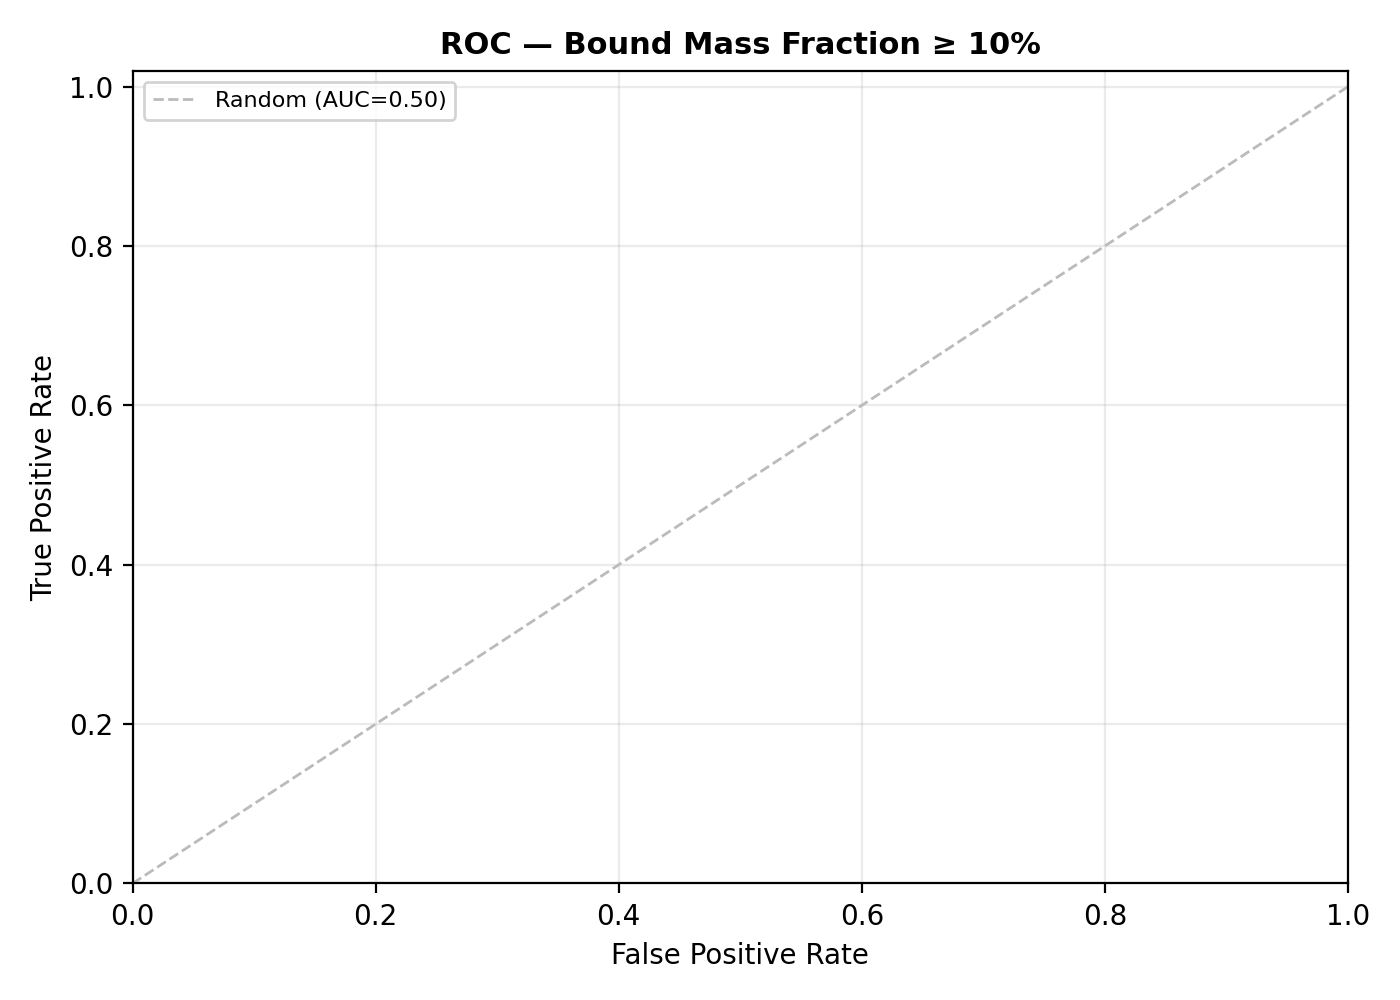
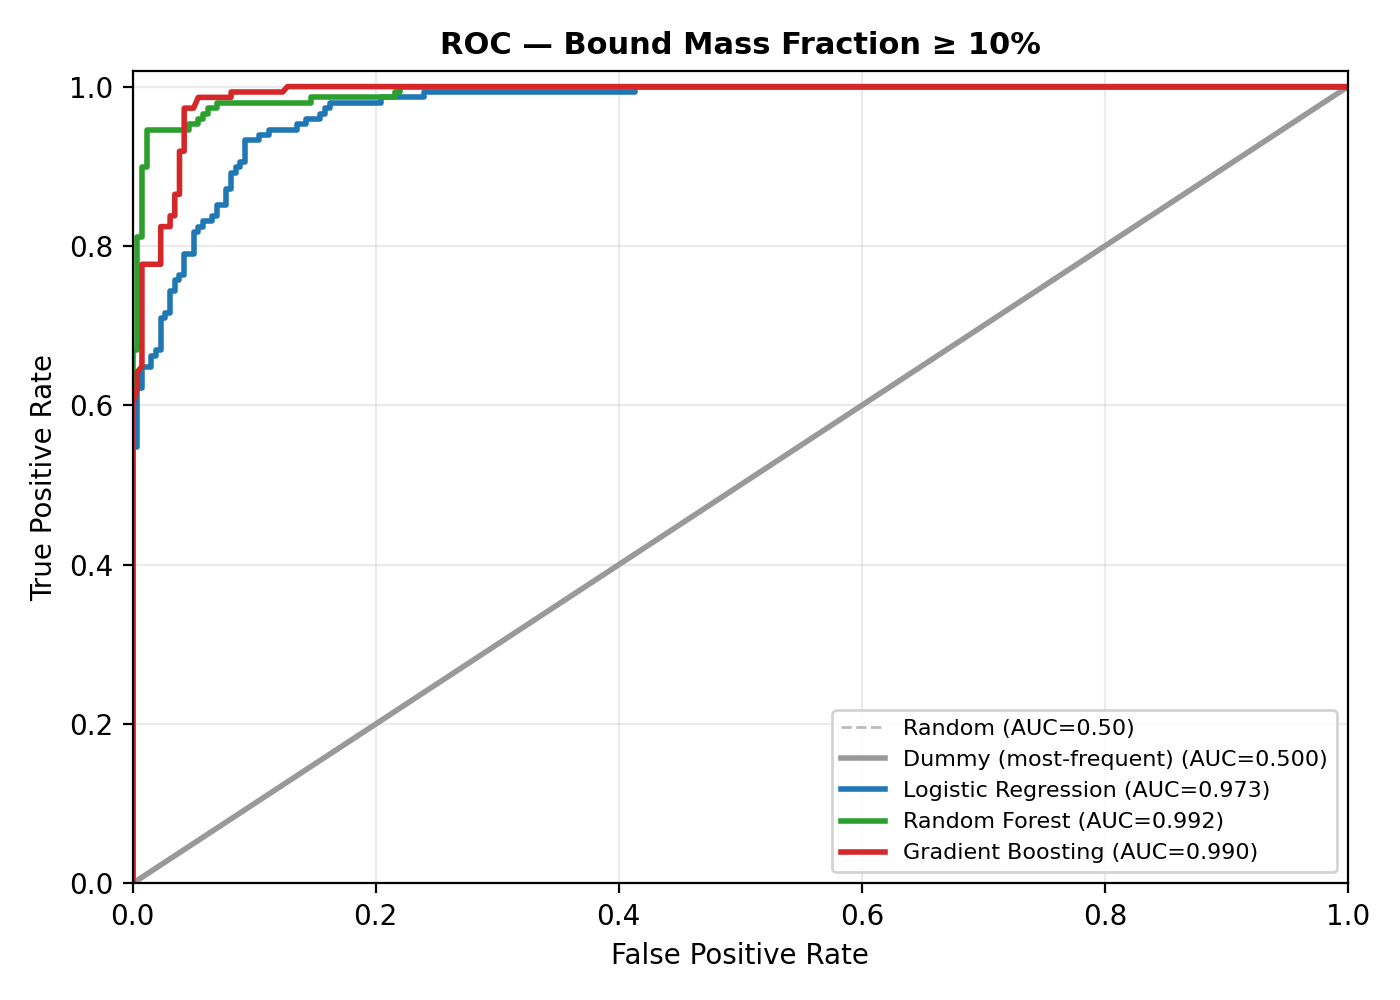
plot: fixed roc plot

diff --git a/scripts/plot_roc_curves.py b/scripts/plot_roc_curves.py
@@ -36,18 +36,44 @@ from sklearn.metrics import roc_auc_score, roc_curve
 # ── config ───────────────────────────────────────────────────────────────────
 
 MODEL_COLORS = {
-    "dummy_most_frequent":          "#999999",
-    "logistic_regression":          "#1f77b4",
-    "random_forest_classifier":     "#2ca02c",
-    "gradient_boosting_classifier": "#d62728",
+    # classifiers
+    "dummy_most_frequent":           "#999999",
+    "logistic_regression":           "#1f77b4",
+    "random_forest_classifier":      "#2ca02c",
+    "gradient_boosting_classifier":  "#d62728",
+    # regressors (used for binarised regression targets)
+    "dummy_mean":                    "#999999",
+    "ridge":                         "#1f77b4",
+    "random_forest_regressor":       "#2ca02c",
+    "gradient_boosting_regressor":   "#d62728",
 }
 
 MODEL_LABELS = {
-    "dummy_most_frequent":          "Dummy (most-frequent)",
-    "logistic_regression":          "Logistic Regression",
-    "random_forest_classifier":     "Random Forest",
-    "gradient_boosting_classifier": "Gradient Boosting",
+    # classifiers
+    "dummy_most_frequent":           "Dummy (most-frequent)",
+    "logistic_regression":           "Logistic Regression",
+    "random_forest_classifier":      "Random Forest",
+    "gradient_boosting_classifier":  "Gradient Boosting",
+    # regressors
+    "dummy_mean":                    "Dummy (mean)",
+    "ridge":                         "Ridge Regression",
+    "random_forest_regressor":       "Random Forest",
+    "gradient_boosting_regressor":   "Gradient Boosting",
 }
+
+CLASSIFIER_MODELS = [
+    "dummy_most_frequent",
+    "logistic_regression",
+    "random_forest_classifier",
+    "gradient_boosting_classifier",
+]
+
+REGRESSOR_MODELS = [
+    "dummy_mean",
+    "ridge",
+    "random_forest_regressor",
+    "gradient_boosting_regressor",
+]
 
 # For targets that exist only as regression in predictions, we binarise them:
 # Each entry: (nice name, source column in predictions, threshold, threshold description)
@@ -96,6 +122,22 @@ def best_feature_set(metrics: pd.DataFrame, target: str) -> str:
     return str(best["feature_set"])
 
 
+def _parse_actual(series: pd.Series) -> pd.Series:
+    """Convert actual column to bool correctly.
+
+    prediction_records.csv stores booleans as the *strings* 'True' / 'False'.
+    Calling .astype(bool) on a string treats any non-empty string — including
+    'False' — as True, collapsing both classes to the same label.
+    This helper handles both string and numeric representations.
+    """
+    # If already numeric (0/1) — e.g. derived regression rows — just coerce
+    numeric = pd.to_numeric(series, errors="coerce")
+    if numeric.notna().all():
+        return numeric.astype(bool)
+    # Otherwise map string literals
+    return series.map({"True": True, "False": False, True: True, False: False})
+
+
 def roc_for_target(
     records: pd.DataFrame,
     target_col: str,
@@ -104,8 +146,12 @@ def roc_for_target(
     dataset: str,
     ax: plt.Axes,
     title: str,
+    model_list: list[str] | None = None,
 ) -> None:
     """Draw ROC curves for all models on a single axis."""
+    if model_list is None:
+        model_list = CLASSIFIER_MODELS
+
     sub = records[
         (records["task"] == "classification")
         & (records["target"] == target_col)
@@ -120,17 +166,16 @@ def roc_for_target(
 
     ax.plot([0, 1], [0, 1], "--", color="#bbbbbb", linewidth=1, label="Random (AUC=0.50)")
 
-    for model_name in ["dummy_most_frequent", "logistic_regression",
-                       "random_forest_classifier", "gradient_boosting_classifier"]:
+    for model_name in model_list:
         msub = sub[sub["model"] == model_name].copy()
         if msub.empty:
             continue
-        y_true = msub["actual"].astype(bool)
+        y_true  = _parse_actual(msub["actual"])
         y_score = pd.to_numeric(msub["score"], errors="coerce")
-        valid = ~y_score.isna()
-        y_true  = y_true[valid]
+        valid   = y_true.notna() & y_score.notna()
+        y_true  = y_true[valid].astype(bool)
         y_score = y_score[valid]
-        if y_true.nunique() < 2 or y_score.isna().all():
+        if y_true.nunique() < 2:
             continue
         try:
             fpr, tpr, _ = roc_curve(y_true, y_score)
